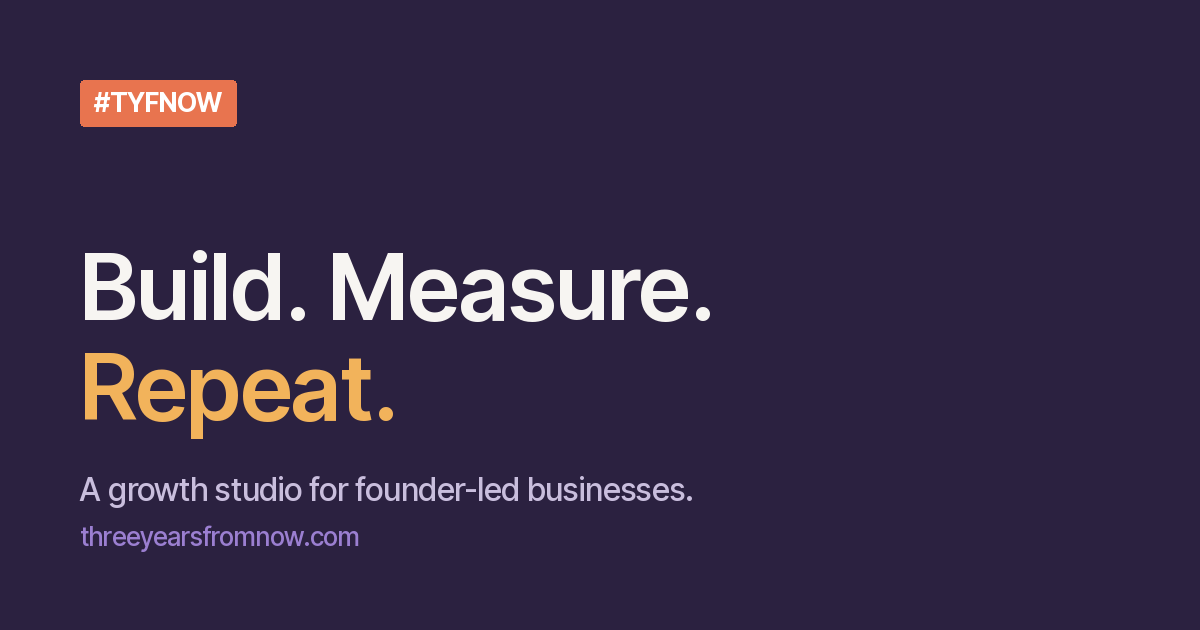
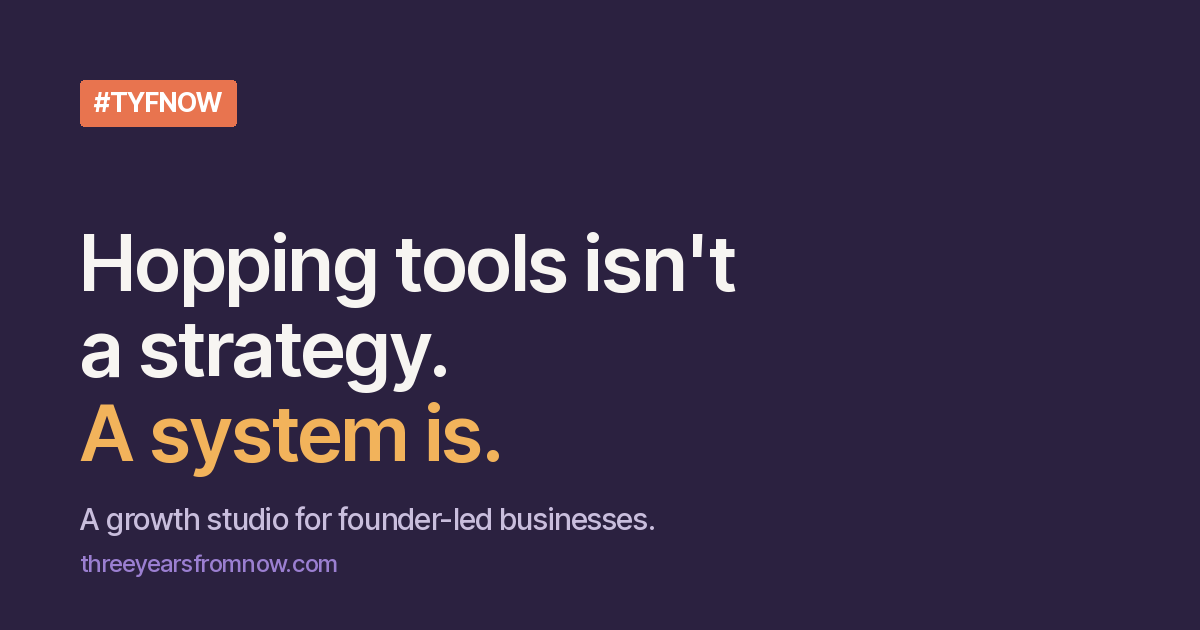
Change log v7: new hero, why-now, closing card and share card (F43-F47)
Claude-Session: https://claude.ai/code/session_01FGqM6zCdzXNwXnxrJ8bsNB

Changed region(s): [[0.0617, 0.3619, 0.6167, 0.9048]]

diff --git a/index.html b/index.html
@@ -4,10 +4,10 @@
 <meta charset="utf-8">
 <meta name="viewport" content="width=device-width, initial-scale=1">
 <title>Growth studio for founder-led businesses. Three Years From Now</title>
-<meta name="description" content="Stop trying every AI tool. Fix what's blocking growth. Brand, website, content and pipeline, built, measured and improved every week.">
+<meta name="description" content="Hopping tools isn't a strategy. A system is. A growth studio for founder-led businesses that deals with today's problem whilst building the system for tomorrow.">
 <link rel="canonical" href="https://www.threeyearsfromnow.com/">
 <meta property="og:title" content="Growth studio for founder-led businesses. Three Years From Now">
-<meta property="og:description" content="Build. Measure. Repeat. A growth studio for founder-led businesses.">
+<meta property="og:description" content="Hopping tools isn't a strategy. A system is. A growth studio for founder-led businesses that deals with today's problem whilst building the system for tomorrow.">
 <meta property="og:url" content="https://www.threeyearsfromnow.com/">
 <meta property="og:type" content="website">
 <meta property="og:site_name" content="Three Years From Now">
@@ -15,10 +15,10 @@
 <meta property="og:image" content="https://www.threeyearsfromnow.com/img/og.png">
 <meta property="og:image:width" content="1200">
 <meta property="og:image:height" content="630">
-<meta property="og:image:alt" content="Build. Measure. Repeat. A growth studio for founder-led businesses.">
+<meta property="og:image:alt" content="Hopping tools isn't a strategy. A system is. A growth studio for founder-led businesses.">
 <meta name="twitter:card" content="summary_large_image">
 <meta name="twitter:title" content="Growth studio for founder-led businesses. Three Years From Now">
-<meta name="twitter:description" content="Stop trying every AI tool. Fix what's blocking growth. Brand, website, content and pipeline, built, measured and improved every week.">
+<meta name="twitter:description" content="Hopping tools isn't a strategy. A system is. A growth studio for founder-led businesses that deals with today's problem whilst building the system for tomorrow.">
 <meta name="twitter:image" content="https://www.threeyearsfromnow.com/img/og.png">
 <script type="application/ld+json">{"@context": "https://schema.org", "@graph": [{"@type": "Organization", "@id": "https://www.threeyearsfromnow.com/#org", "name": "Three Years From Now", "alternateName": "TYFNOW", "legalName": "Three Years From Now Ltd", "url": "https://www.threeyearsfromnow.com/", "logo": "https://www.threeyearsfromnow.com/img/og.png", "description": "A growth studio for founder-led businesses. Brand, website, content and pipeline, built, measured and improved every week.", "foundingDate": "2026-02", "identifier": {"@type": "PropertyValue", "propertyID": "Companies House", "value": "17013338"}, "founder": {"@type": "Person", "@id": "https://www.threeyearsfromnow.com/#founder", "name": "Shaheryar Malik", "jobTitle": "Founder and creative director"}, "address": {"@type": "PostalAddress", "streetAddress": "259 Sheepcot Lane", "addressLocality": "Watford", "postalCode": "WD25 7DJ", "addressCountry": "GB"}, "areaServed": "GB", "knowsAbout": ["brand", "website", "content", "pipeline", "growth marketing", "AI systems for small businesses"]}, {"@type": "WebSite", "@id": "https://www.threeyearsfromnow.com/#website", "url": "https://www.threeyearsfromnow.com/", "name": "Three Years From Now", "publisher": {"@id": "https://www.threeyearsfromnow.com/#org"}, "inLanguage": "en-GB"}, {"@type": "WebPage", "@id": "https://www.threeyearsfromnow.com/#page", "url": "https://www.threeyearsfromnow.com/", "name": "Three Years From Now", "isPartOf": {"@id": "https://www.threeyearsfromnow.com/#website"}, "about": {"@id": "https://www.threeyearsfromnow.com/#org"}}]}</script>
 <link rel="preload" href="/fonts/InterTight-var.woff" as="font" type="font/woff" crossorigin>
@@ -42,8 +42,8 @@
 
   <main>
     <section class="hero wrap" id="top">
-      <h1>Build.<br>Measure.<br>Repeat.</h1>
-      <p class="sub">Stop trying every AI tool. Fix what's blocking growth.</p>
+      <h1>Hopping tools<br>isn't a strategy.<br>A system is.</h1>
+      <p class="sub">A growth studio that deals with today's problem whilst building the system for tomorrow.</p>
       <a href="/contact" class="btn sky" data-track="hero_cta_primary">Tell us what's not working</a>
       <div class="chip c1" aria-hidden="true"><img src="/img/todaytix-480.jpg" alt="" loading="eager"></div>
       <div class="chip c2" aria-hidden="true"><img src="/img/amex-puppet-480.jpg" alt="" loading="lazy"></div>
@@ -55,7 +55,7 @@
 
     <section id="why-now" class="sec wrap">
       <div class="sec-head">
-        <h2 class="wide">Everyone's got more tools than ever. The ones that pull ahead build better.</h2>
+        <h2 class="wide">Everyone's got more tools than ever. The ones pulling ahead built a system.</h2>
       </div>
       <div class="card globe-card">
         <div class="globe-wrap">
@@ -66,8 +66,9 @@
       <div class="three">
         <div><div class="num">1</div><div class="line">Output is cheap now</div></div>
         <div><div class="num">2</div><div class="line">Most will bolt it onto chaos</div></div>
-        <div><div class="num">3</div><div class="line">Everything starts to look the same</div></div>
+        <div><div class="num">3</div><div class="line">Chasing the next tool keeps the work the same</div></div>
       </div>
+      <p class="gap-line">The gap isn't the tools. It's having someone who decides where they belong and does the work. That's us.</p>
     </section>
 
     <section id="build" class="sec wrap tight">
@@ -188,13 +189,14 @@
 
     <section id="contact" class="cta-sec wrap">
       <div class="card cta-card">
-        <h2>Something need fixing?<br><span>Say what it is.</span><br>We'll say what it takes.</h2>
+        <h2>Three years from now<br><span>you'll either have a system</span><br>or the same to‑do list.</h2>
         <form id="cta-form" class="cta-form" action="/contact" method="get">
           <div class="cta-field">
             <label for="cta-email" class="sr-only">Your email</label>
             <input id="cta-email" name="email" type="email" inputmode="email" autocomplete="email" placeholder="Your email">
             <button type="submit" class="btn">Tell us what's not working</button>
           </div>
+          <p class="trust">One problem first. Measured from week one. The rest follows.</p>
         </form>
       </div>
     </section>

diff --git a/css/home.css b/css/home.css
@@ -15,21 +15,21 @@
 
 /* Hero */
 .hero{position:relative;overflow:hidden;height:760px;display:flex;flex-direction:column;align-items:center;justify-content:center;text-align:center;gap:28px}
-.hero h1{font-size:112px;line-height:.98;max-width:900px}
+.hero h1{font-size:96px;line-height:.98;max-width:820px}
 .hero .sub{font-size:24px;line-height:1.4;max-width:560px;color:var(--body)}
 .hero .btn{margin-top:8px}
 .chip{position:absolute}
 .chip img{border-radius:12px;object-fit:cover;width:var(--w);height:var(--h)}
-.chip.c1{left:70px;top:90px;transform:rotate(-5deg);--w:252px;--h:168px}
-.chip.c2{left:120px;top:380px;transform:rotate(3deg);--w:210px;--h:140px}
+.chip.c1{left:24px;top:70px;transform:rotate(-5deg);--w:252px;--h:168px}
+.chip.c2{left:60px;top:400px;transform:rotate(3deg);--w:210px;--h:140px}
 .chip.c3{left:200px;top:545px;transform:rotate(-2deg);--w:182px;--h:123px}
-.chip.c4{right:80px;top:70px;transform:rotate(4deg);--w:238px;--h:157px}
-.chip.c5{right:110px;top:360px;transform:rotate(-3deg);--w:210px;--h:140px}
-.chip.c6{right:210px;top:555px;transform:rotate(2deg);--w:182px;--h:123px}
-@media (max-width:1200px){.chip.c3,.chip.c6{display:none}.chip.c1{left:24px}.chip.c4{right:24px}.chip.c2{left:40px}.chip.c5{right:40px}}
+.chip.c4{right:24px;top:60px;transform:rotate(4deg);--w:238px;--h:157px}
+.chip.c5{right:60px;top:390px;transform:rotate(-3deg);--w:210px;--h:140px}
+.chip.c6{right:180px;top:565px;transform:rotate(2deg);--w:182px;--h:123px}
+@media (max-width:1200px){.hero h1{font-size:72px}.chip.c3,.chip.c6{display:none}.chip.c1{left:16px;top:60px;--w:200px;--h:133px}.chip.c4{right:16px;top:50px;--w:190px;--h:126px}.chip.c2{left:24px;top:500px;--w:150px;--h:100px}.chip.c5{right:24px;top:auto;bottom:40px;--w:150px;--h:100px}}
 @media (max-width:900px){
-  .hero{height:auto;min-height:600px;padding:96px 0 96px;gap:20px}
-  .hero h1{font-size:64px}
+  .hero{height:auto;min-height:600px;padding:150px 0 160px;gap:20px}
+  .hero h1{font-size:54px}
   .hero .sub{font-size:19px}
   .chip img{border-radius:8px}
   .chip.c2,.chip.c3,.chip.c6{display:none}
@@ -49,11 +49,13 @@
 .three>div{display:flex;flex-direction:column;gap:10px}
 .three .num{font-size:44px;font-weight:600;letter-spacing:-0.03em;color:var(--sky)}
 .three .line{font-size:26px;font-weight:600;letter-spacing:-0.02em;line-height:1.15}
+.gap-line{margin:40px auto 0;max-width:720px;font-size:20px;line-height:1.4;color:var(--body)}
 @media (max-width:900px){
   .globe-card{padding:24px}
   .globe-hint{display:block}
   .three{grid-template-columns:1fr;gap:28px}
   .three .line{font-size:22px}
+  .gap-line{margin-top:28px;font-size:17px}
 }
 
 /* Build: marquees edge to edge */
@@ -183,7 +185,7 @@
 /* Closing CTA */
 .cta-sec{padding-top:160px;padding-bottom:128px}
 .cta-card{background:var(--ink);color:#fff;padding:112px 80px 96px;display:flex;flex-direction:column;align-items:center;text-align:center;gap:40px}
-.cta-card h2{font-size:72px;max-width:760px}
+.cta-card h2{font-size:64px;max-width:880px}
 .cta-card h2 span{color:var(--accent)}
 .cta-card .said{font-size:16px;color:var(--muted2)}
 .cta-form{width:100%;max-width:640px;display:flex;flex-direction:column;align-items:center;gap:16px}
@@ -195,7 +197,7 @@
 @media (max-width:900px){
   .cta-sec{padding-top:96px;padding-bottom:80px}
   .cta-card{padding:56px 24px 48px}
-  .cta-card h2{font-size:40px}
+  .cta-card h2{font-size:30px}
   .cta-field{flex-direction:column;border-radius:24px;padding:6px}
   .cta-field input{width:100%;padding:0 18px}
   .cta-field .btn{width:100%}

diff --git a/work/index.html b/work/index.html
@@ -16,7 +16,7 @@
 <meta property="og:image" content="https://www.threeyearsfromnow.com/img/og.png">
 <meta property="og:image:width" content="1200">
 <meta property="og:image:height" content="630">
-<meta property="og:image:alt" content="Build. Measure. Repeat. A growth studio for founder-led businesses.">
+<meta property="og:image:alt" content="Hopping tools isn't a strategy. A system is. A growth studio for founder-led businesses.">
 <meta name="twitter:card" content="summary_large_image">
 <meta name="twitter:title" content="Work. Brand, website, content and pipeline for founder-led businesses. Three Years From Now">
 <meta name="twitter:description" content="Work by Three Years From Now: brand, website, content and pipeline, built with TYFNOW and in the years before it.">

diff --git a/blog/two-thousand-and-ninety-three/index.html b/blog/two-thousand-and-ninety-three/index.html
@@ -16,7 +16,7 @@
 <meta property="og:image" content="https://www.threeyearsfromnow.com/img/og.png">
 <meta property="og:image:width" content="1200">
 <meta property="og:image:height" content="630">
-<meta property="og:image:alt" content="Build. Measure. Repeat. A growth studio for founder-led businesses.">
+<meta property="og:image:alt" content="Hopping tools isn't a strategy. A system is. A growth studio for founder-led businesses.">
 <meta name="twitter:card" content="summary_large_image">
 <meta name="twitter:title" content="Two thousand and ninety-three. Three Years From Now">
 <meta name="twitter:description" content="The ride report: 2,093 km from London to Lisbon over sixteen days, eight World Heritage Sites, and £2,026 raised for Shelter and Andy&#x27;s Man Club.">

diff --git a/blog/build-grow-and-keep-moving/index.html b/blog/build-grow-and-keep-moving/index.html
@@ -16,7 +16,7 @@
 <meta property="og:image" content="https://www.threeyearsfromnow.com/img/og.png">
 <meta property="og:image:width" content="1200">
 <meta property="og:image:height" content="630">
-<meta property="og:image:alt" content="Build. Measure. Repeat. A growth studio for founder-led businesses.">
+<meta property="og:image:alt" content="Hopping tools isn't a strategy. A system is. A growth studio for founder-led businesses.">
 <meta name="twitter:card" content="summary_large_image">
 <meta name="twitter:title" content="Build, grow and keep moving. Three Years From Now">
 <meta name="twitter:description" content="Three Years From Now is supporting Amber and Shaheryar&#x27;s 2,026 km ride from London to Lisbon, raising £2,026 for Shelter and Andy&#x27;s Man Club.">

diff --git a/blog/five-months-of-saturdays/index.html b/blog/five-months-of-saturdays/index.html
@@ -16,7 +16,7 @@
 <meta property="og:image" content="https://www.threeyearsfromnow.com/img/og.png">
 <meta property="og:image:width" content="1200">
 <meta property="og:image:height" content="630">
-<meta property="og:image:alt" content="Build. Measure. Repeat. A growth studio for founder-led businesses.">
+<meta property="og:image:alt" content="Hopping tools isn't a strategy. A system is. A growth studio for founder-led businesses.">
 <meta name="twitter:card" content="summary_large_image">
 <meta name="twitter:title" content="Five months of Saturdays. Three Years From Now">
 <meta name="twitter:description" content="Five months of training for the London to Lisbon ride: Richmond Park laps, two sportives, Hadrian&#x27;s Cycleway coast to coast and the Dunwich Dynamo.">

diff --git a/contact/index.html b/contact/index.html
@@ -15,7 +15,7 @@
 <meta property="og:image" content="https://www.threeyearsfromnow.com/img/og.png">
 <meta property="og:image:width" content="1200">
 <meta property="og:image:height" content="630">
-<meta property="og:image:alt" content="Build. Measure. Repeat. A growth studio for founder-led businesses.">
+<meta property="og:image:alt" content="Hopping tools isn't a strategy. A system is. A growth studio for founder-led businesses.">
 <meta name="twitter:card" content="summary_large_image">
 <meta name="twitter:title" content="Tell us what's not working. Contact Three Years From Now">
 <meta name="twitter:description" content="A straight conversation about what's not working. Reply within five working days. No hard sell.">

diff --git a/blog/index.html b/blog/index.html
@@ -16,7 +16,7 @@
 <meta property="og:image" content="https://www.threeyearsfromnow.com/img/og.png">
 <meta property="og:image:width" content="1200">
 <meta property="og:image:height" content="630">
-<meta property="og:image:alt" content="Build. Measure. Repeat. A growth studio for founder-led businesses.">
+<meta property="og:image:alt" content="Hopping tools isn't a strategy. A system is. A growth studio for founder-led businesses.">
 <meta name="twitter:card" content="summary_large_image">
 <meta name="twitter:title" content="Blog. Notes on building and growing a small business. Three Years From Now">
 <meta name="twitter:description" content="Notes from Three Years From Now. Mostly the ride to Lisbon, for now.">

diff --git a/privacy/index.html b/privacy/index.html
@@ -15,7 +15,7 @@
 <meta property="og:image" content="https://www.threeyearsfromnow.com/img/og.png">
 <meta property="og:image:width" content="1200">
 <meta property="og:image:height" content="630">
-<meta property="og:image:alt" content="Build. Measure. Repeat. A growth studio for founder-led businesses.">
+<meta property="og:image:alt" content="Hopping tools isn't a strategy. A system is. A growth studio for founder-led businesses.">
 <meta name="twitter:card" content="summary_large_image">
 <meta name="twitter:title" content="Privacy policy. Three Years From Now">
 <meta name="twitter:description" content="What we collect, why, where it goes and how long we keep it.">

diff --git a/terms/index.html b/terms/index.html
@@ -15,7 +15,7 @@
 <meta property="og:image" content="https://www.threeyearsfromnow.com/img/og.png">
 <meta property="og:image:width" content="1200">
 <meta property="og:image:height" content="630">
-<meta property="og:image:alt" content="Build. Measure. Repeat. A growth studio for founder-led businesses.">
+<meta property="og:image:alt" content="Hopping tools isn't a strategy. A system is. A growth studio for founder-led businesses.">
 <meta name="twitter:card" content="summary_large_image">
 <meta name="twitter:title" content="Terms. Three Years From Now">
 <meta name="twitter:description" content="Website terms and the front-page question.">

diff --git a/_build/build_work_blog.py b/_build/build_work_blog.py
@@ -49,7 +49,7 @@ def page(path, title, desc, body, canonical, index=True, extra_head="", body_att
 <meta property="og:image" content="{BASE}/img/og.png">
 <meta property="og:image:width" content="1200">
 <meta property="og:image:height" content="630">
-<meta property="og:image:alt" content="Build. Measure. Repeat. A growth studio for founder-led businesses.">
+<meta property="og:image:alt" content="Hopping tools isn't a strategy. A system is. A growth studio for founder-led businesses.">
 <meta name="twitter:card" content="summary_large_image">
 <meta name="twitter:title" content="{html.escape(title, quote=True)}">
 <meta name="twitter:description" content="{html.escape(desc, quote=True)}">
